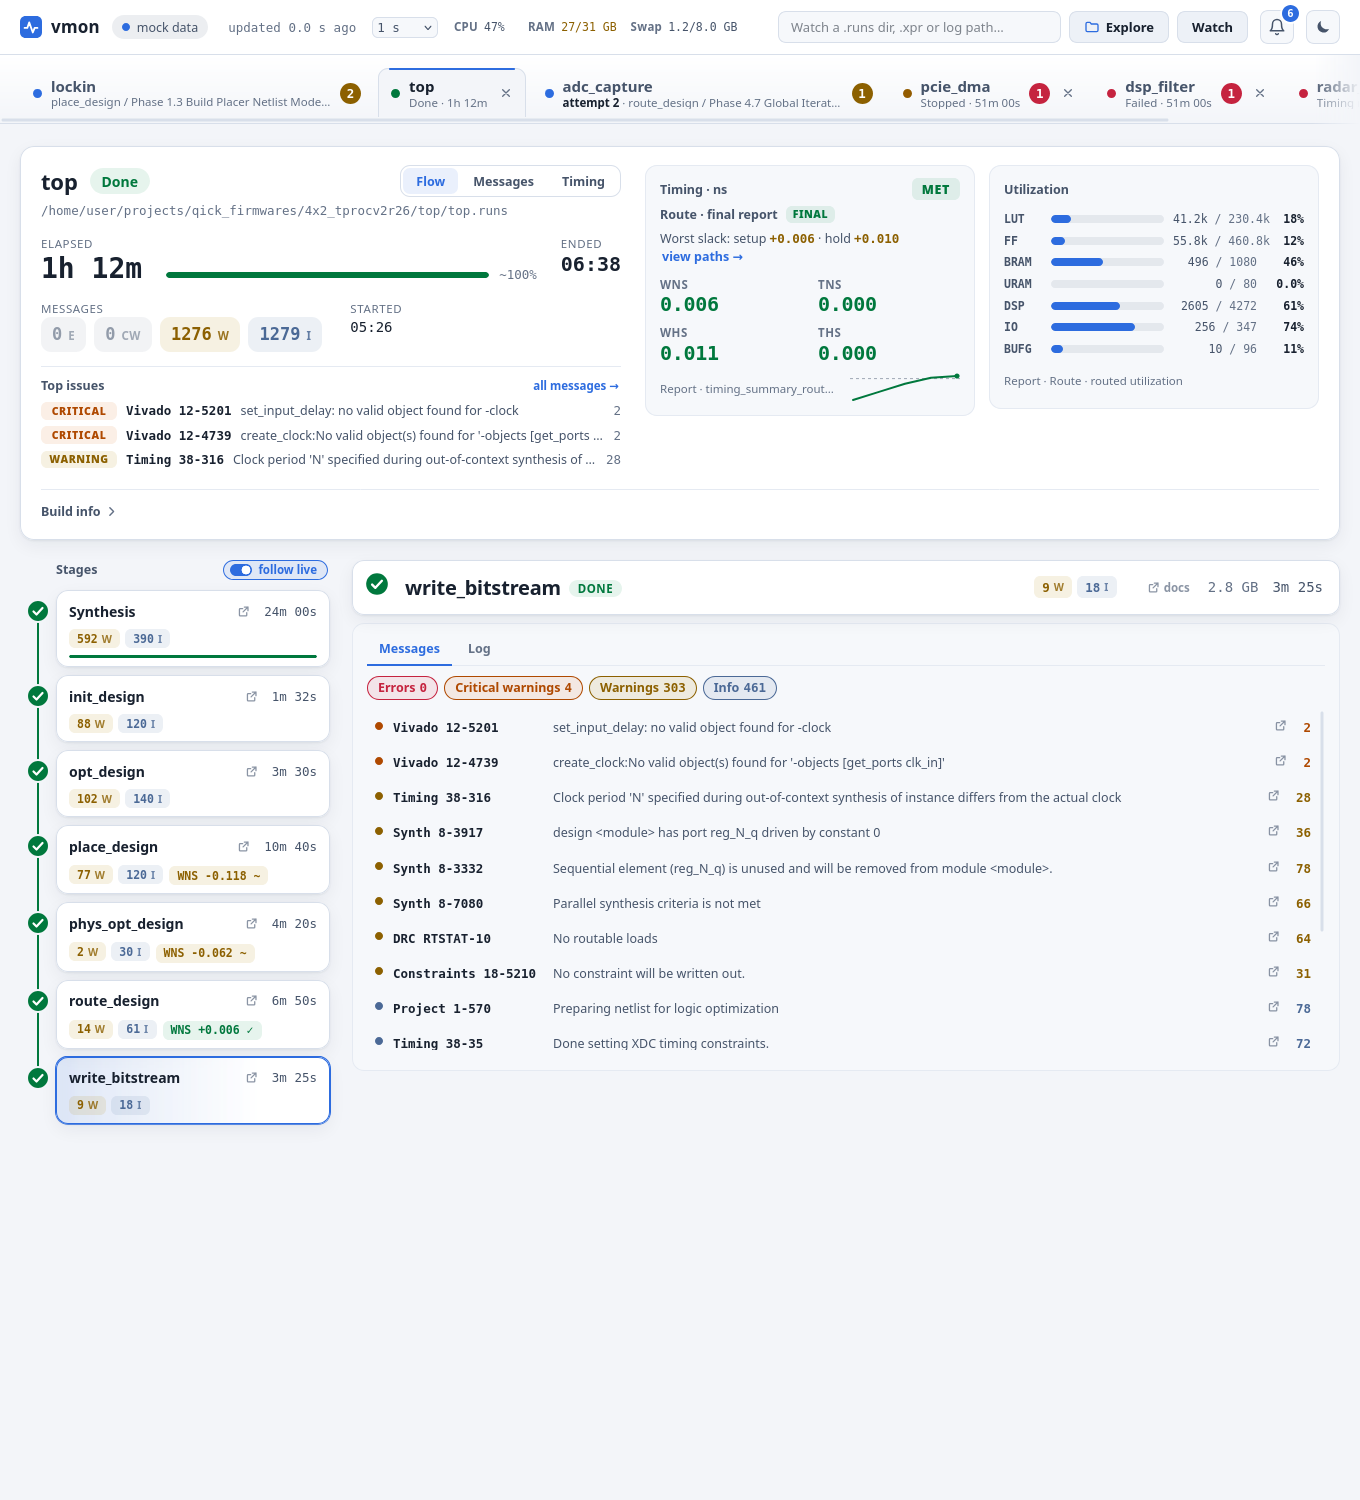
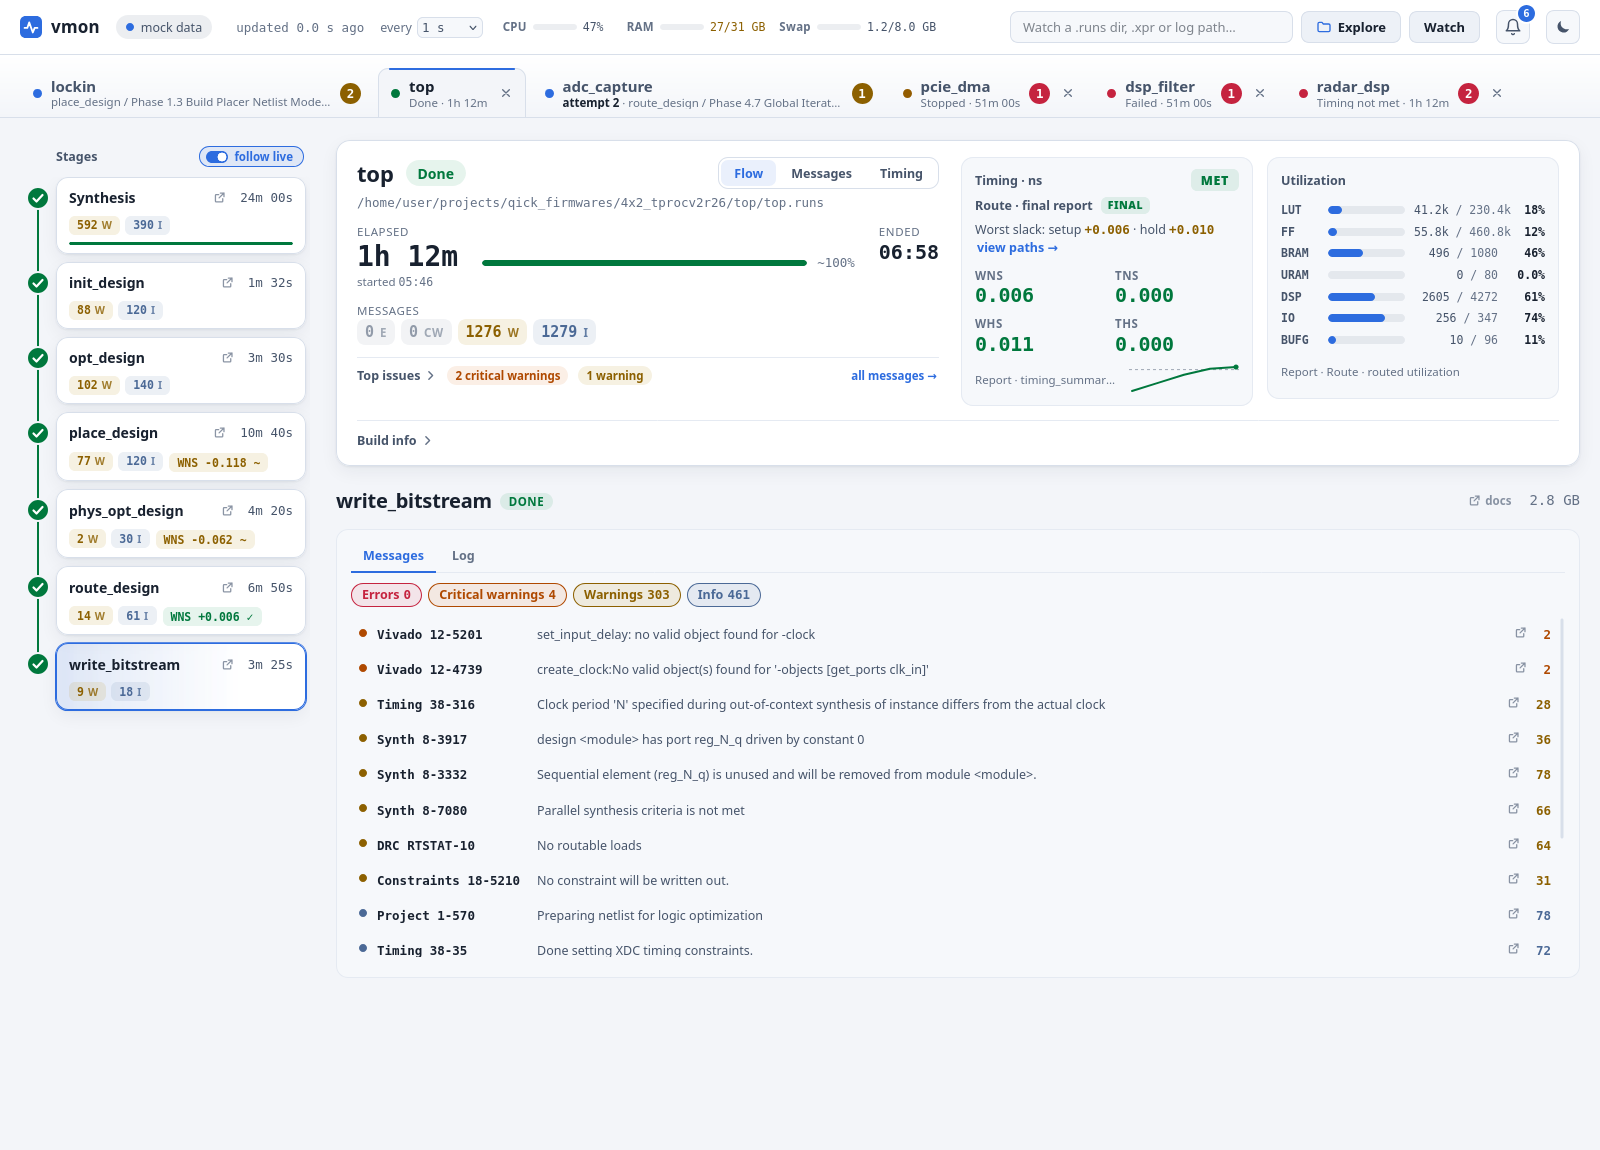
Refresh README screenshots and features for the stage rail
Adds a narrow-window screenshot showing the stages as one tree, and
documents the rail, follow-live and keyboard shortcuts.

diff --git a/README.md b/README.md
@@ -9,7 +9,7 @@ Live web monitor for Xilinx Vivado builds: see which step and phase is running, 
 ## Features
 
 - **Auto-discovery** of running Vivado processes; one tab per firmware, finished runs stay visible.
-- **Master-detail drill-down flow**: synth, opt, place, phys_opt, route, bitstream. Upcoming steps and phases come from a per-version phase catalog, with predicted phase numbers.
+- **Stage rail + drill-down**: synth, opt, place, phys_opt, route, bitstream stay pinned in a left rail with a *follow live* switch; the selected stage drills down on the right (on narrow windows the list becomes one tree, with the stage opening in place). Upcoming steps and phases come from a per-version phase catalog, with predicted phase numbers.
 - **Timing you can trust**: intermediate and estimated values are shown as "not final"; red only when the final result fails. Missing hold metrics are carried forward and marked stale.
 - **Utilization card**, parsing of intermediate reports (timing, DRC, power, route status, ...).
 - **Worst timing paths** (setup/hold, logic vs route, expandable), **per-clock history** across stages and builds with regressions highlighted.
@@ -19,11 +19,12 @@ Live web monitor for Xilinx Vivado builds: see which step and phase is running, 
 - **ETA** from the previous build of the same firmware.
 - **Build info**: part, board, strategies, directives; links to AMD documentation.
 - **System CPU / RAM / swap** meters, sticky summary, folder explorer to add runs.
+- **Keyboard**: `1`-`9` firmware tabs, `f`/`m`/`t` views, `j`/`k` stages, `n` next alert, `c` collapse all, `?` help; arrow keys on the tab strip.
 - No AI: pure log parsing. Read-only. Python standard library only.
 
-| Messages triage | Light theme, finished build |
-|---|---|
-| ![Messages](docs/img/messages.png) | ![Light theme](docs/img/light-theme.png) |
+| Messages triage | Light theme, finished build | Narrow window |
+|---|---|---|
+| ![Messages](docs/img/messages.png) | ![Light theme](docs/img/light-theme.png) | <img src="docs/img/narrow.png" alt="Narrow window: stages as one tree" width="240"> |
 
 ## Requirements
 
